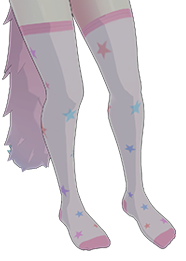
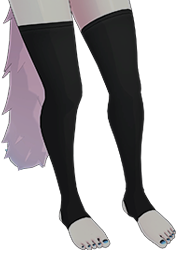
1.4.5

diff --git a/src/main/java/com/changemyavatarparams/cmap/view/ChangeMyAvatarParams.java b/src/main/java/com/changemyavatarparams/cmap/view/ChangeMyAvatarParams.java
@@ -67,20 +67,20 @@ public class ChangeMyAvatarParams extends VerticalLayout {
         paramButtons.add(new VerticalImageButton(new AvatarParameter("Outfit", 12, 1)));
         paramButtons.add(new VerticalImageButton(new AvatarParameter("Outfit", 13, 1)));
 
-        ParamButton styleOutfitTrue = new ImageButton(new AvatarParameter("StyleOutfit", true, 2));
-        styleOutfitTrue.getStyle().set("background-position", "center center");
-        ParamButton styleOutfitFalse = new ImageButton(new AvatarParameter("StyleOutfit", false, 2));
-        styleOutfitFalse.getStyle().set("background-position", "center center");
-        styleOutfitFalse.setVisible(false);
-        paramButtons.add(styleOutfitTrue);
-        paramButtons.add(styleOutfitFalse);
+//        ParamButton styleOutfitTrue = new VerticalImageButton(new AvatarParameter("StyleOutfit", true, 2));
+//        styleOutfitTrue.getStyle().set("background-position", "center center");
+//        ParamButton styleOutfitFalse = new VerticalImageButton(new AvatarParameter("StyleOutfit", false, 2));
+//        styleOutfitFalse.getStyle().set("background-position", "center center");
+//        styleOutfitFalse.setVisible(false);
+//        paramButtons.add(styleOutfitTrue);
+//        paramButtons.add(styleOutfitFalse);
 
-        paramButtons.add(new VerticalImageButton(new AvatarParameter("StyleSocks", (float) 0, 1)));
-        paramButtons.add(new VerticalImageButton(new AvatarParameter("StyleSocks", (float) 0.2, 1)));
-        paramButtons.add(new VerticalImageButton(new AvatarParameter("StyleSocks", (float) 0.4, 1)));
-        paramButtons.add(new VerticalImageButton(new AvatarParameter("StyleSocks", (float) 0.6, 1)));
-        paramButtons.add(new VerticalImageButton(new AvatarParameter("StyleSocks", (float) 0.8, 1)));
-        paramButtons.add(new VerticalImageButton(new AvatarParameter("StyleSocks", (float) 1, 1)));
+        paramButtons.add(new VerticalImageButton(new AvatarParameter("StyleSocks", 0, 1)));
+        paramButtons.add(new VerticalImageButton(new AvatarParameter("StyleSocks", 1, 1)));
+        paramButtons.add(new VerticalImageButton(new AvatarParameter("StyleSocks", 2, 1)));
+        paramButtons.add(new VerticalImageButton(new AvatarParameter("StyleSocks", 3, 1)));
+        paramButtons.add(new VerticalImageButton(new AvatarParameter("StyleSocks", 4, 1)));
+        paramButtons.add(new VerticalImageButton(new AvatarParameter("StyleSocks", 5, 1)));
 
         // Hair
         paramButtons.add(new ParamButton(new AvatarParameter("Hair", false, 1), "Blowout"));

diff --git a/src/main/java/com/changemyavatarparams/cmap/controller/OscController.java b/src/main/java/com/changemyavatarparams/cmap/controller/OscController.java
@@ -31,7 +31,7 @@ public class OscController {
 
     // Avatar meta and parameters
     public static AvatarMeta avatarMeta = new AvatarMeta();
-    public static List<String> supportedAvatarIDs = Arrays.asList("avtr_2f278bcb-1cb6-4fa2-8323-28581daad4ec");
+    public static List<String> supportedAvatarIDs = Arrays.asList("avtr_2f278bcb-1cb6-4fa2-8323-28581daad4ec", "avtr_15caeae9-ff66-4856-a0b3-9424d97f7ab2");
 
     // UI Clients
     public static List<Client> clients = new ArrayList<>();
